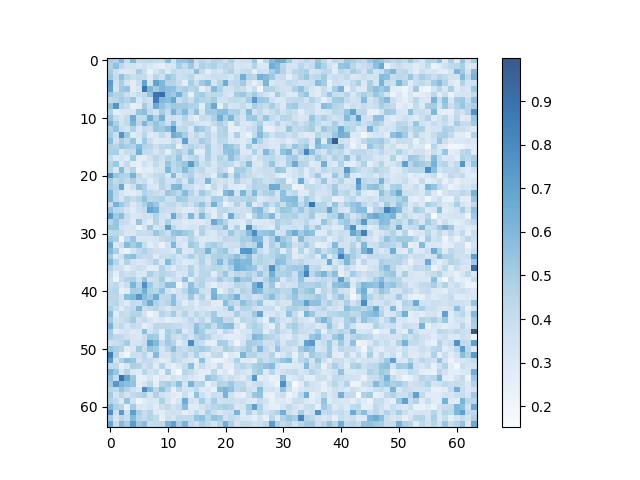
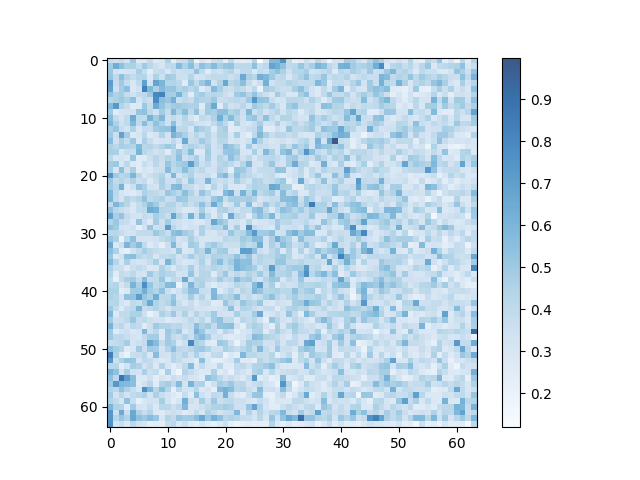
Fix: Shift guidance target from Latents to Noise Prediction, Fix lambda scale

diff --git a/dclg_pipeline.py b/dclg_pipeline.py
@@ -23,27 +23,23 @@ class DCLGPipeline:
             num_heads = attn_map.shape[0] // 2
             cond_attn = attn_map[num_heads:] 
             
-            # 1. 특정 토큰 맵 추출 및 Head 평균
-            map_A = cond_attn[:, :, idx_A].mean(dim=0) # [HW]
-            map_B = cond_attn[:, :, idx_B].mean(dim=0) # [HW]
+            map_A = cond_attn[:, :, idx_A].mean(dim=0)
+            map_B = cond_attn[:, :, idx_B].mean(dim=0)
             
-            # 2. Attention Sharpening (선명도 강화)
-            # 높은 활성화 지역에 집중하도록 지수를 취함
+            # Sharpening
             map_A = torch.pow(map_A, 2)
             map_B = torch.pow(map_B, 2)
             
-            # 3. Individual Normalization (스케일 통일)
-            # 강도가 낮더라도 공간적으로 겹치면 패널티를 크게 주기 위함
+            # Normalization
             map_A = map_A / (map_A.max() + 1e-8)
             map_B = map_B / (map_B.max() + 1e-8)
             
-            # 4. Cosine Similarity (배타성/직교성 강화)
-            # 두 맵이 서로 다른 곳을 볼수록 Loss가 낮아짐
+            # Cosine Similarity
             map_A_flat = map_A.view(-1)
             map_B_flat = map_B.view(-1)
             cos_sim = F.cosine_similarity(map_A_flat, map_B_flat, dim=0)
             
-            # 5. Erasure Penalty (객체 보존)
+            # Erasure Penalty
             erasure_penalty = torch.relu(0.5 - map_A.max()) + torch.relu(0.5 - map_B.max())
             
             total_loss += (cos_sim + erasure_penalty)
@@ -81,20 +77,24 @@ class DCLGPipeline:
         save_steps = [25, 15, 5]
         
         for i, t in enumerate(self.pipe.scheduler.timesteps):
+            # 1. Gradient 추적을 위해 latent 설정
             latents = latents.detach().requires_grad_(True)
             self.hook_manager.clear()
             
+            # 2. Forward pass
             latent_model_input = torch.cat([latents] * 2)
             latent_model_input = self.pipe.scheduler.scale_model_input(latent_model_input, t)
             
-            noise_pred = self.pipe.unet(
+            noise_pred_out = self.pipe.unet(
                 latent_model_input, t,
                 encoder_hidden_states=torch.cat([negative_prompt_embeds, prompt_embeds], dim=0)
             ).sample
             
-            noise_pred_uncond, noise_pred_text = noise_pred.chunk(2)
+            # 3. CFG 적용
+            noise_pred_uncond, noise_pred_text = noise_pred_out.chunk(2)
             noise_pred = noise_pred_uncond + guidance_scale * (noise_pred_text - noise_pred_uncond)
             
+            # 4. Guidance (방법 A: Noise Prediction 방향 수정)
             if i < tau_threshold and lambda_max > 0:
                 captured_maps = self.hook_manager.get_captured_maps()
                 loss = self.compute_chimera_loss(captured_maps, idx_A, idx_B)
@@ -103,19 +103,24 @@ class DCLGPipeline:
                 if save_intermediate and i in save_steps:
                     self.save_debug_maps(captured_maps, idx_A, idx_B, i, lambda_val_label)
 
+                # Gradient of Loss w.r.t. Latents
                 grad = torch.autograd.grad(loss, latents)[0]
                 
                 grad_clip = self.config['dclg'].get('grad_clip')
                 if grad_clip:
                     grad = torch.clamp(grad, -grad_clip, grad_clip)
 
-                # Update latents
-                latents = latents - lambda_max * (1 - i / tau_threshold) * grad
+                # [핵심] noise_pred 수정: Loss를 줄이는 방향(-grad)으로 이미지를 밀기 위해 
+                # 노이즈 성분에 +grad를 더해줌 (스케줄러에서 noise_pred를 빼기 때문)
+                noise_pred = noise_pred + lambda_max * (1 - i / tau_threshold) * grad
+                
+                # Latent 직접 수정은 하지 않음
                 latents = latents.detach()
             else:
                 losses.append(0.0)
                 latents = latents.detach()
             
+            # 5. 수정된 noise_pred를 사용하여 다음 Step 진행
             latents = self.pipe.scheduler.step(noise_pred, t, latents).prev_sample
             
         with torch.no_grad():
@@ -136,7 +141,7 @@ class DCLGPipeline:
         map_A = cond_attn[:, idx_A].detach().cpu().float().numpy()
         map_B = cond_attn[:, idx_B].detach().cpu().float().numpy()
         
-        # 샤프닝 시각화 반영 (제곱)
+        # 샤프닝 시각화 반영
         map_A = np.power(map_A, 2)
         map_B = np.power(map_B, 2)
         map_A = map_A / (map_A.max() + 1e-8)

diff --git a/create_final_report.py b/create_final_report.py
@@ -3,7 +3,7 @@ import matplotlib.image as mpimg
 import os
 
 def create_final_report():
-    lambdas = ["0.5", "1.0", "10.0", "20.0", "50.0", "100.0"]
+    lambdas = ["0.0", "2.0", "5.0", "10.0", "20.0", "50.0"]
     # 6 rows (lambdas) x 5 columns (Img, Loss, MapA, MapB, Overlap)
     fig = plt.figure(figsize=(35, 42), facecolor='#ffffff')
     
